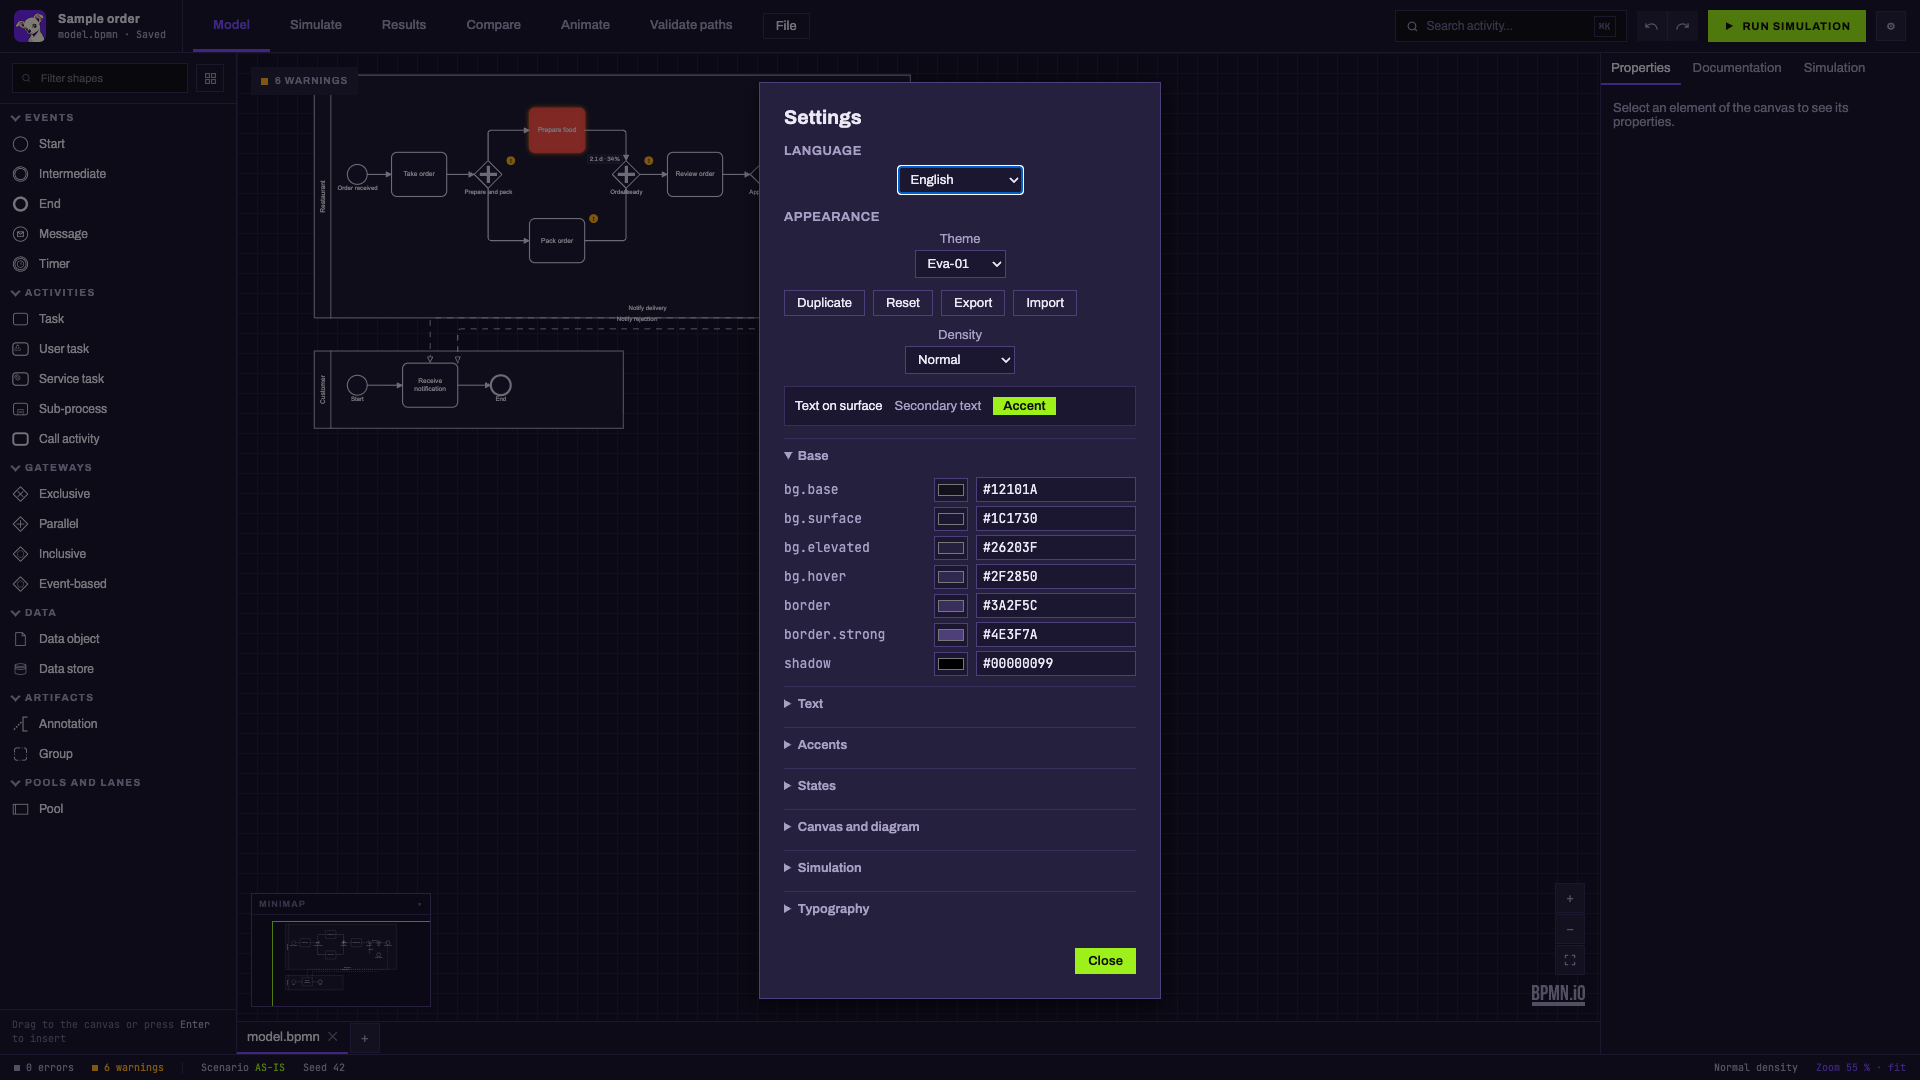
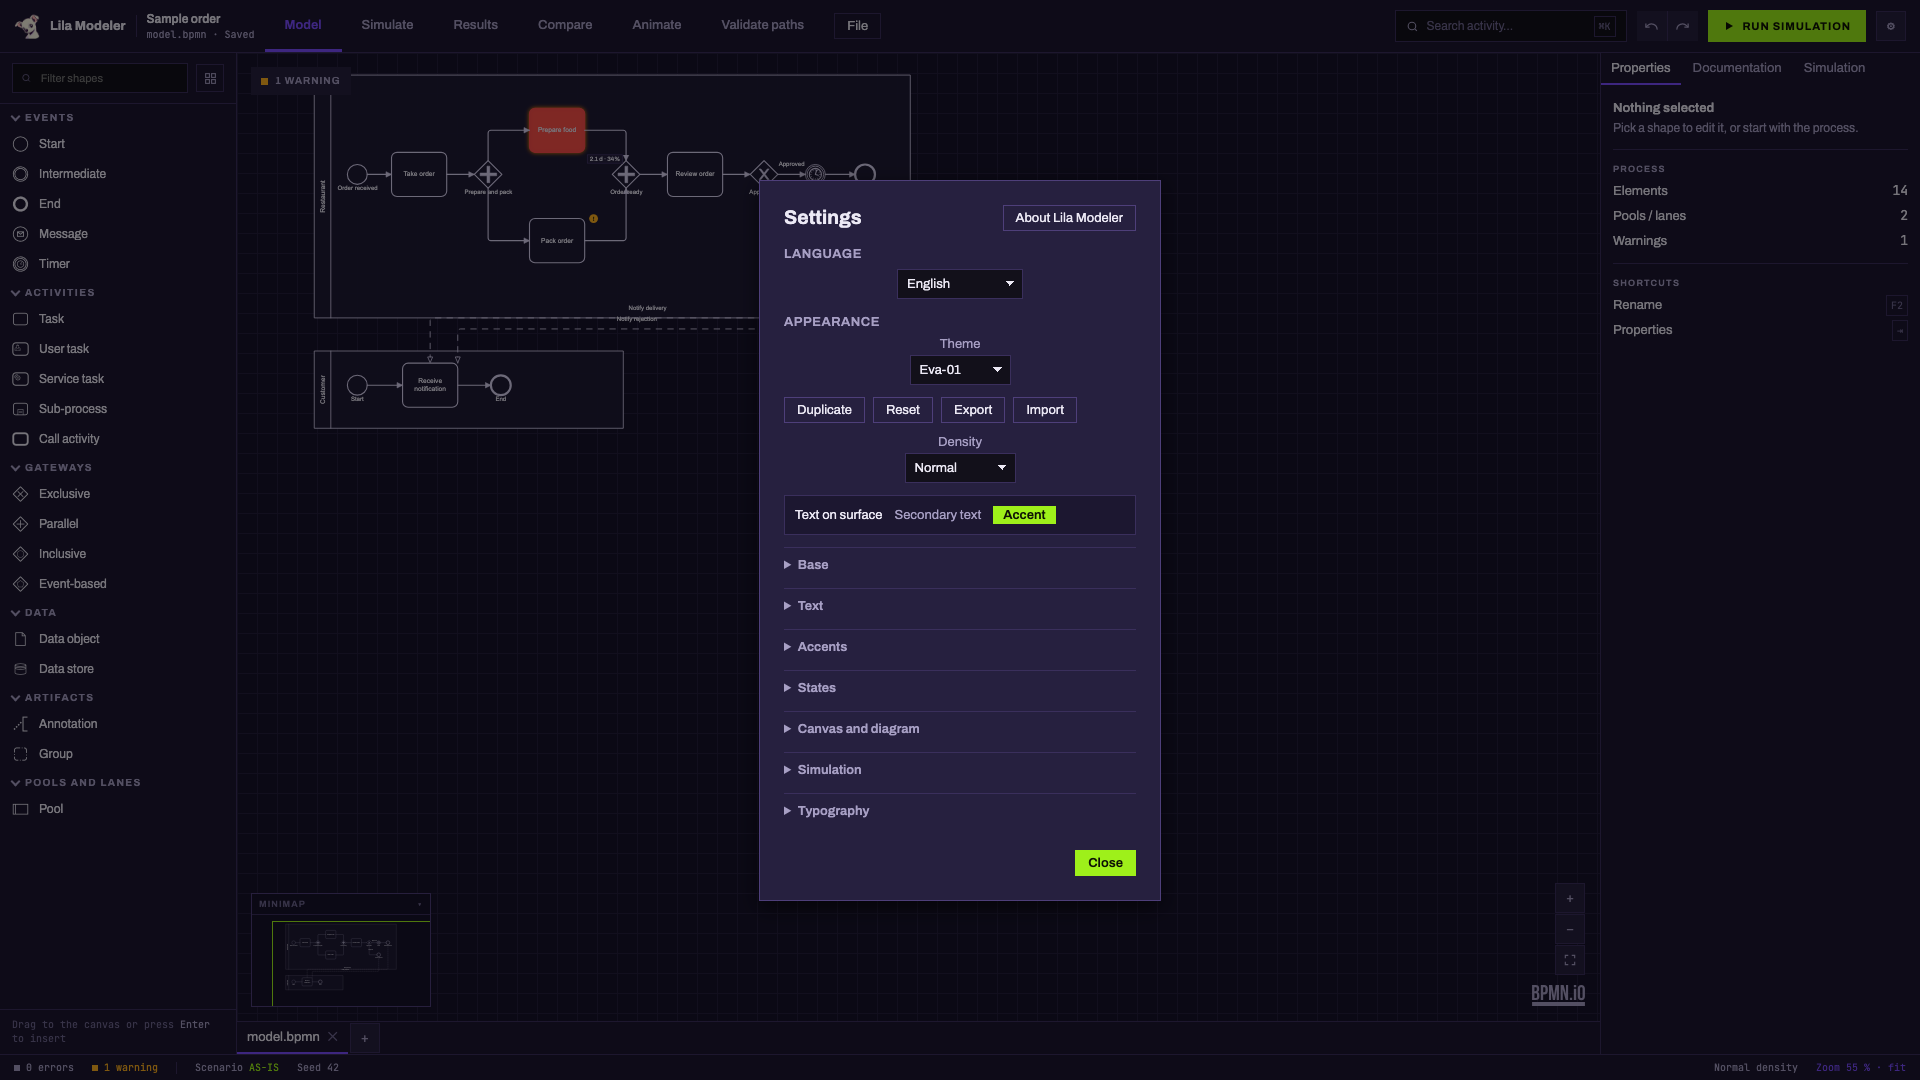
docs(design): refresh English screenshots after the Turno 2 UI
Regenerated docs/design/en/*.png (welcome.png excluded, desktop-only)
from origin/main at 27f8507, which includes #393 (scenario rail,
resizable panel, detachable scenario window, brand lockup and themed
controls) and #370 (transparent Lila artwork). Note the Turno 2 status
in docs/design/README.md.

diff --git a/docs/design/README.md b/docs/design/README.md
@@ -5,6 +5,11 @@ The [current English application gallery](en/README.md) contains real browser sc
 checks opening, editing, simulation, comparison, explicit saving and reload under the Pages base.
 The product landing page uses only this gallery. No public deployment is implied by local capture.
 
+The Turno 2 design — the scenario rail, the resizable panel, the detachable scenario window (2c),
+and the brand lockup with themed controls (2d) — is implemented as of #393 and #370. The
+screenshots below reflect it. Follow-ups tracked separately: #394 (dock), #395 (Results window)
+and #396 (step names).
+
 ## Historical inventory (#287)
 
 All 28 historical PNG files are accounted for below. The 13 design artboards and references
